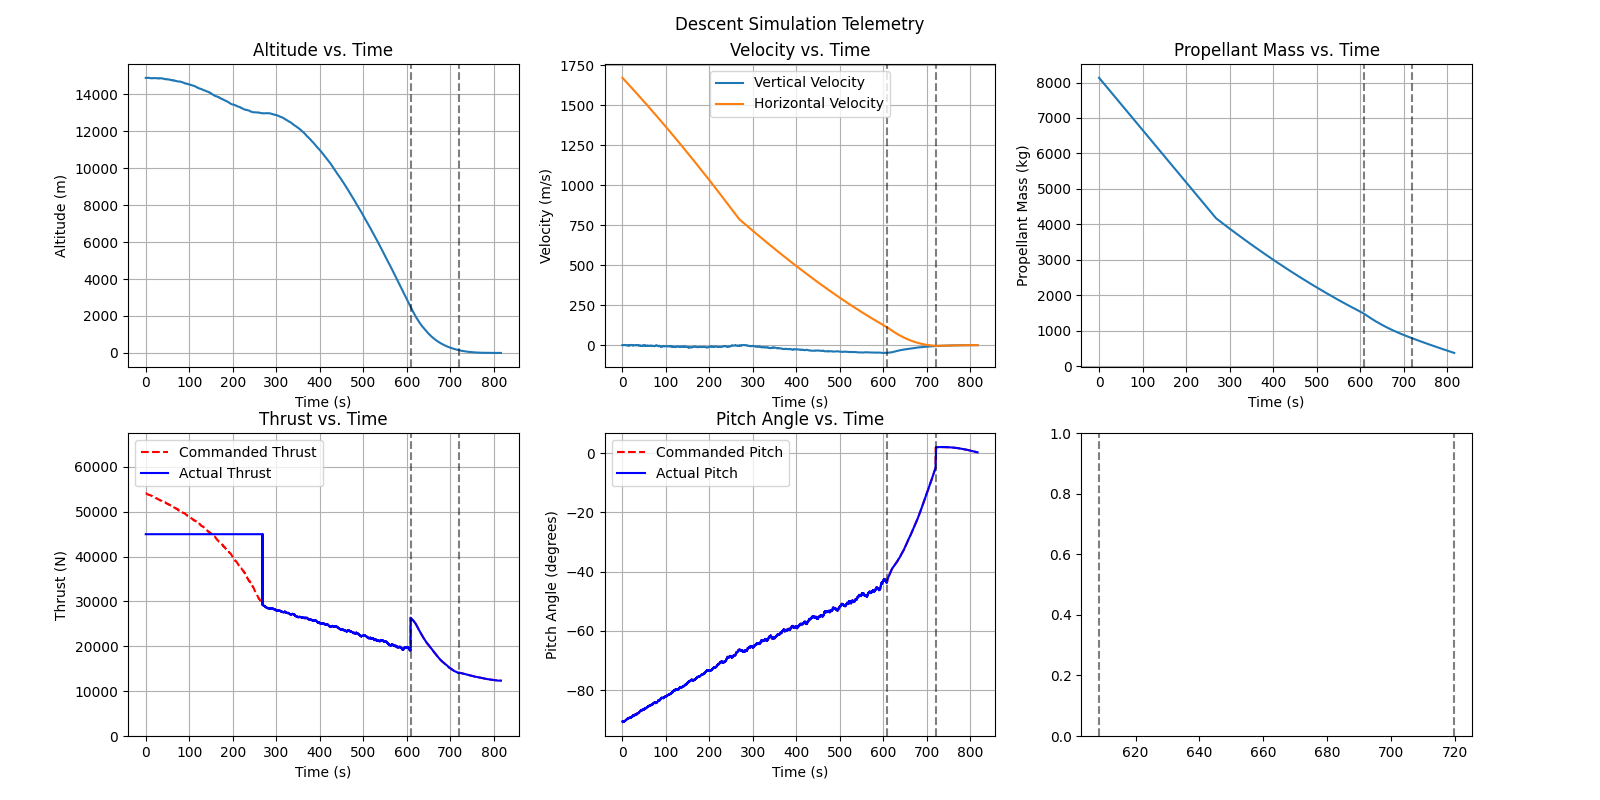
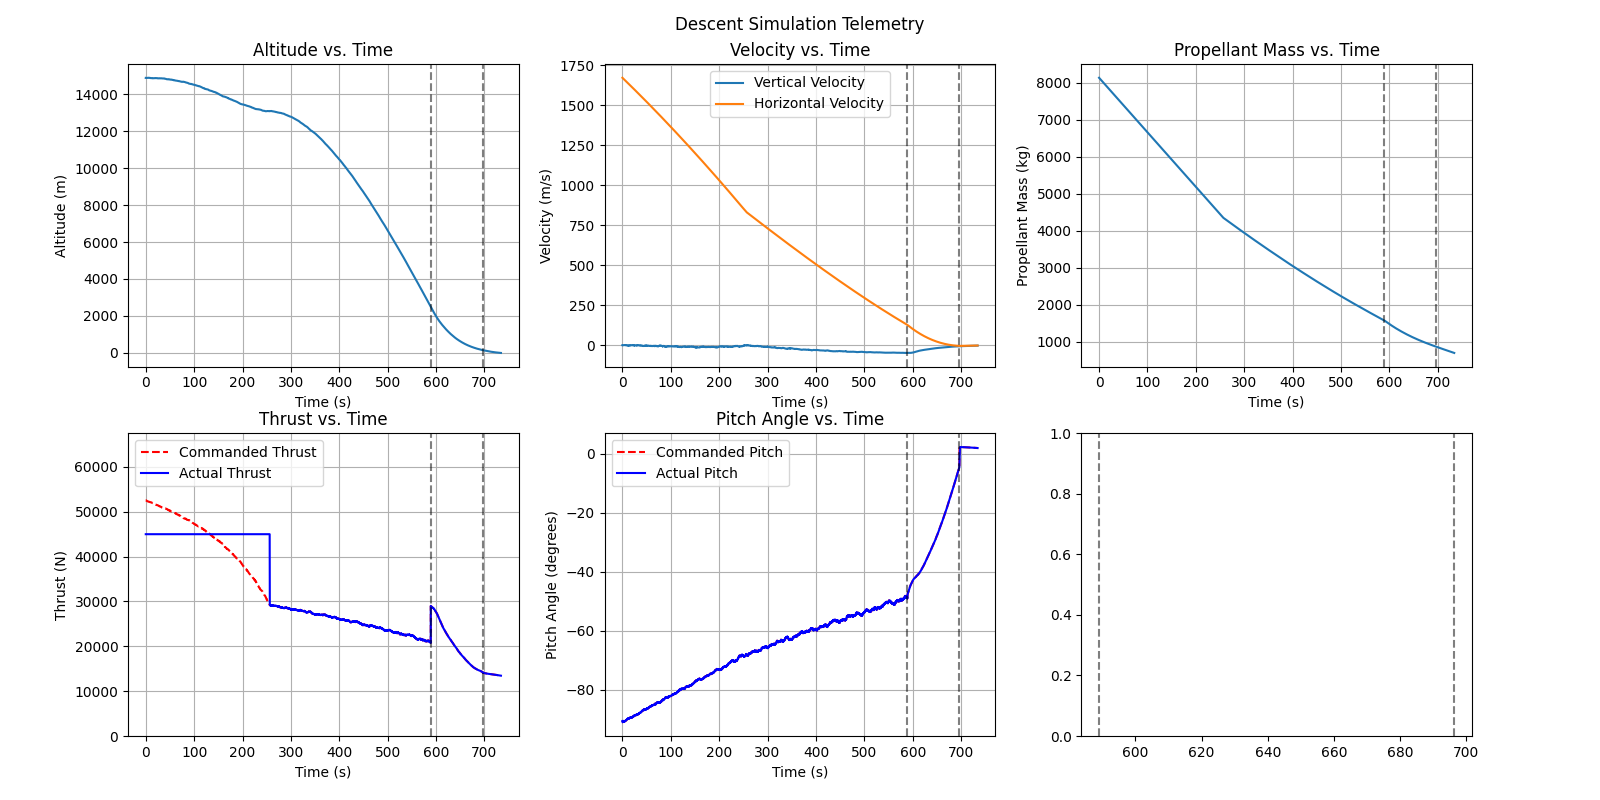
Swapped to RK4 integration from Euler and verified simulation works as expected.

diff --git a/sim/simulation.py b/sim/simulation.py
@@ -9,37 +9,55 @@ class Simulation:
         self.state = inital_state
 
     def step(self, dt: float, control: ControlState) -> None:
-        dstate = self._get_derivatives(control)
-        self._euler(dstate, dt)
+        self._rk4(dt, control)
 
-    def _get_derivatives(self, control: ControlState) -> list[float]:
+    def _get_derivatives(self, state: PolarState, control: ControlState) -> list[float]:
         # Equations of Motion in polar coordinates
         ddr = (
-            control.T_ctrl / self.state.m * np.cos(control.alpha_ctrl)
-            - self.cfg.mu / self.state.r**2
-            + self.state.r * self.state.dtheta**2
+            control.T_ctrl / state.m * np.cos(control.alpha_ctrl)
+            - self.cfg.mu / state.r**2
+            + state.r * state.dtheta**2
         )
         ddtheta = (
             1
-            / self.state.r
+            / state.r
             * (
-                (control.T_ctrl / self.state.m) * np.sin(control.alpha_ctrl)
-                - 2 * self.state.dr * self.state.dtheta
+                (control.T_ctrl / state.m) * np.sin(control.alpha_ctrl)
+                - 2 * state.dr * state.dtheta
             )
         )
+
+        # Update velocities
+        dr = state.dr
+        dtheta = state.dtheta
+
         # Mass flow rate based on ideal rocket equation
         dm = -control.T_ctrl / (self.cfg.Isp * self.cfg.G_earth)
 
-        return [ddr, ddtheta, dm]
+        return [dr, ddr, dtheta, ddtheta, dm]
 
-    def _euler(self, dstate: list[float], dt: float) -> None:
-        # Unpack derivatives
-        ddr, ddtheta, dm = dstate
-        # Update velocities
-        self.state.dr += ddr * dt
-        self.state.dtheta += ddtheta * dt
-        # Update positions
-        self.state.r += self.state.dr * dt
-        self.state.theta += self.state.dtheta * dt
-        # Update mass
-        self.state.m += dm * dt
+    def _rk4(self, dt: float, control: ControlState) -> None:
+        x0 = [
+            self.state.r,
+            self.state.dr,
+            self.state.theta,
+            self.state.dtheta,
+            self.state.m,
+        ]
+        k1 = self._get_derivatives(PolarState(*x0), control)
+        x_k2 = [x0[i] + (dt / 2) * k1[i] for i in range(len(x0))]
+        temp = PolarState(*x_k2)
+        k2 = self._get_derivatives(temp, control)
+        x_k3 = [x0[i] + (dt / 2) * k2[i] for i in range(len(x0))]
+        temp = PolarState(*x_k3)
+        k3 = self._get_derivatives(temp, control)
+        x_k4 = [x0[i] + dt * k3[i] for i in range(len(x0))]
+        temp = PolarState(*x_k4)
+        k4 = self._get_derivatives(temp, control)
+
+        x_next = [
+            x0[i] + (dt / 6) * (k1[i] + 2 * k2[i] + 2 * k3[i] + k4[i])
+            for i in range(len(x0))
+        ]
+
+        self.state = PolarState(x_next[0], x_next[1], x_next[2], x_next[3], x_next[4])

diff --git a/main.py b/main.py
@@ -1,13 +1,15 @@
+# External Libraries
 import time
 import numpy as np
+import matplotlib.pyplot as plt
 import config as cfg
+
+# Internal Libraries
 from telemetry import Logger
 from gnc.navigation import Navigation
 from gnc.guidance import Guidance
 from gnc.control import Control
 from sim.simulation import Simulation
-import matplotlib.pyplot as plt
-from states import ControlState
 
 
 def find_stage_change(t_elapsed: list[float]) -> list[float]:
@@ -26,7 +28,7 @@ t_max = 1000
 
 nav = Navigation(cfg, 1, 42)
 gd = Guidance()
-ct = Control(cfg, ControlState(0, -np.pi / 2, 0, -np.pi / 2))
+ct = Control(cfg, cfg.C0)
 sim = Simulation(cfg, cfg.S0)
 logger = Logger(
     [
@@ -62,11 +64,9 @@ while landing:
     logger.log(t, nav_state, guid_state, ctrl_state, sim.state)
 
     # Simulation Step
-    for i in range(1, 11):
-        # Check landing
-        if sim.state.r - cfg.r_moon < 0 or t > t_max:
-            landing = False
-        sim.step(dt / 10, ctrl_state)
+    if sim.state.r - cfg.r_moon < 0 or t > t_max:
+        landing = False
+    sim.step(dt, ctrl_state)
 
     t += dt
 end = time.time()
